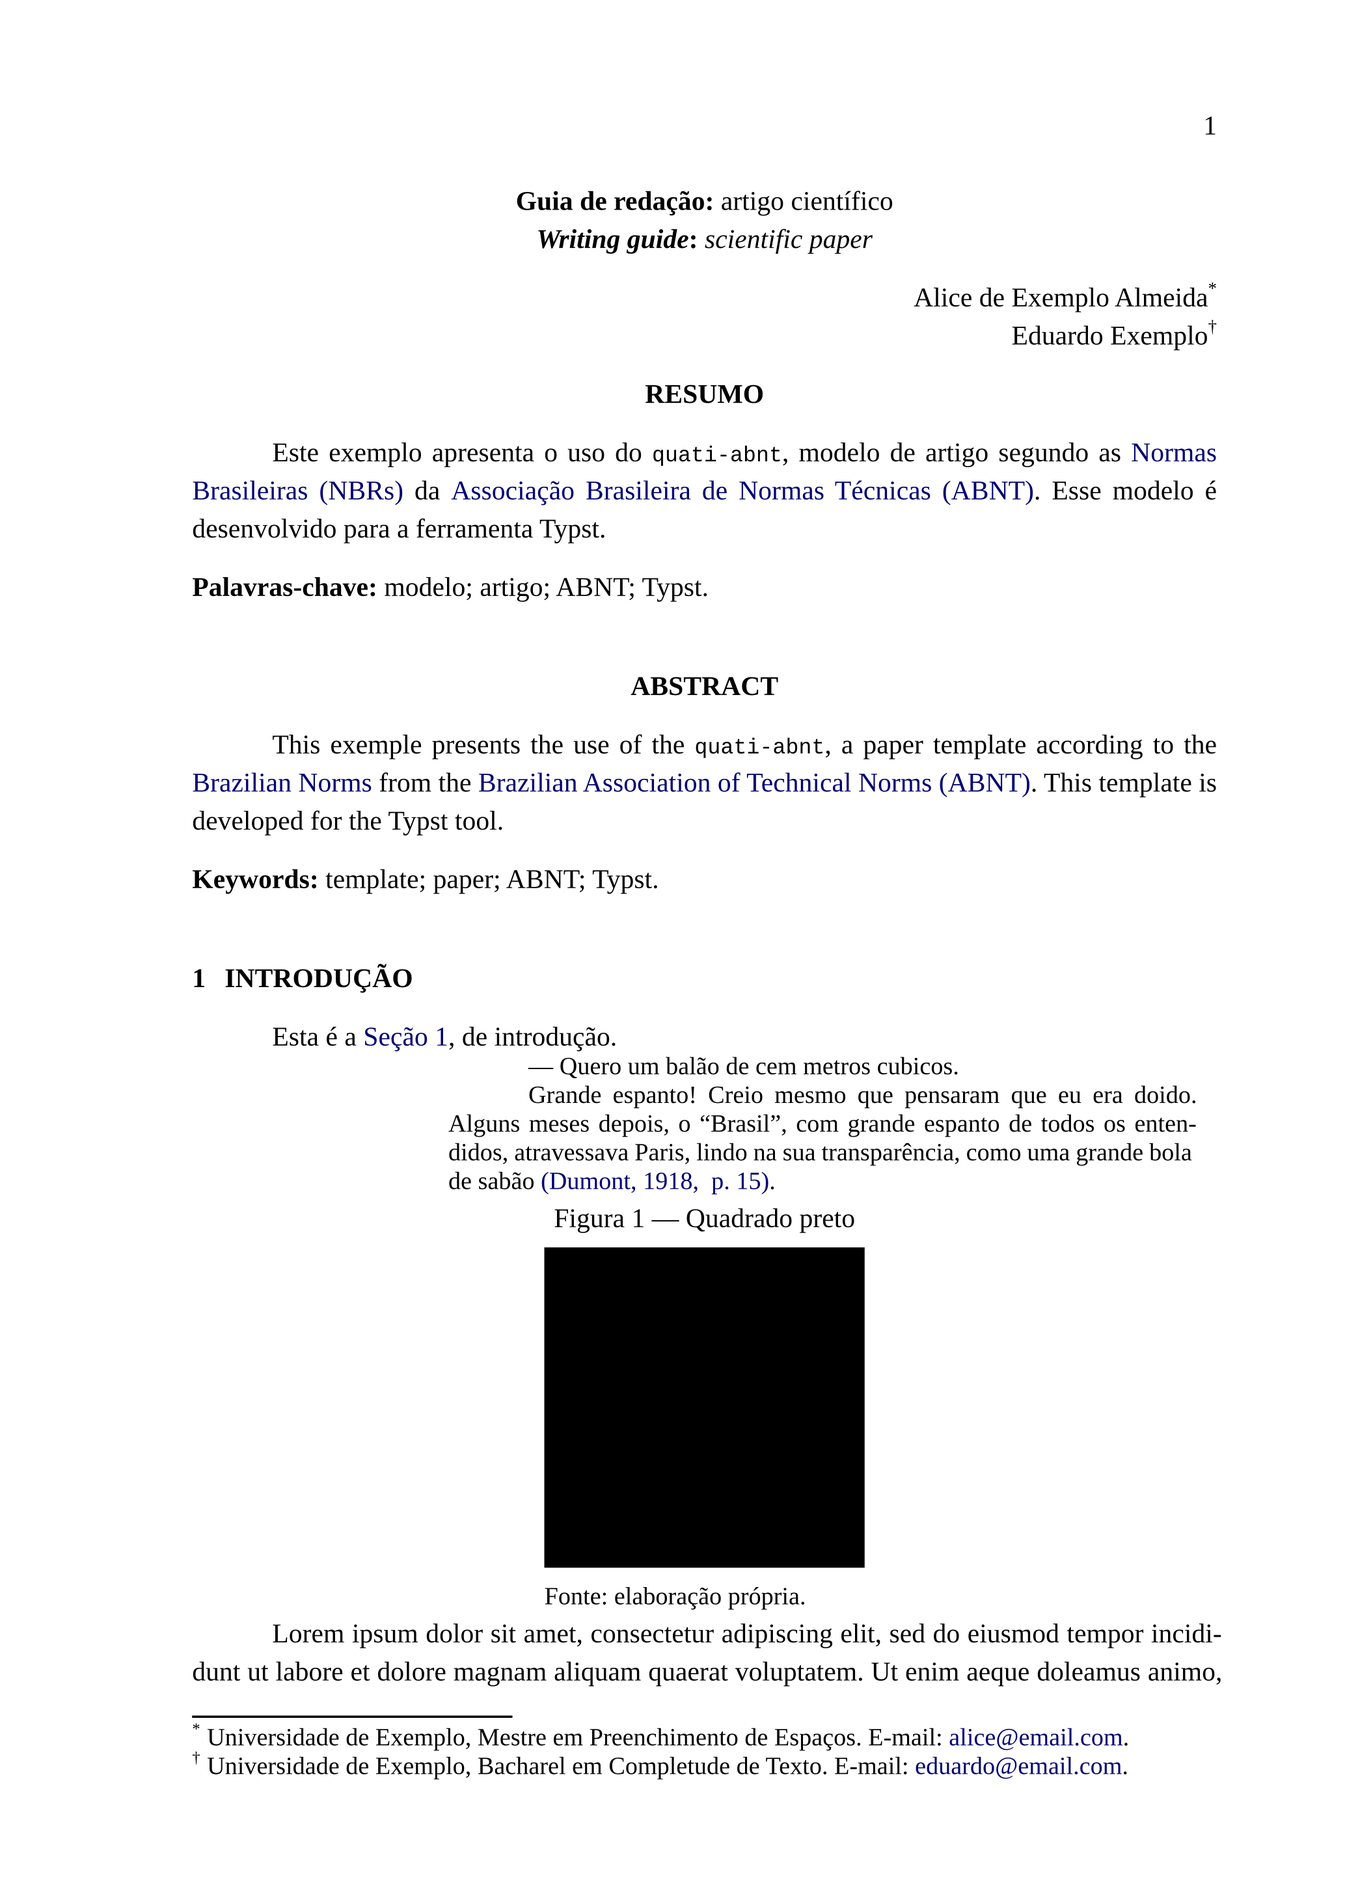
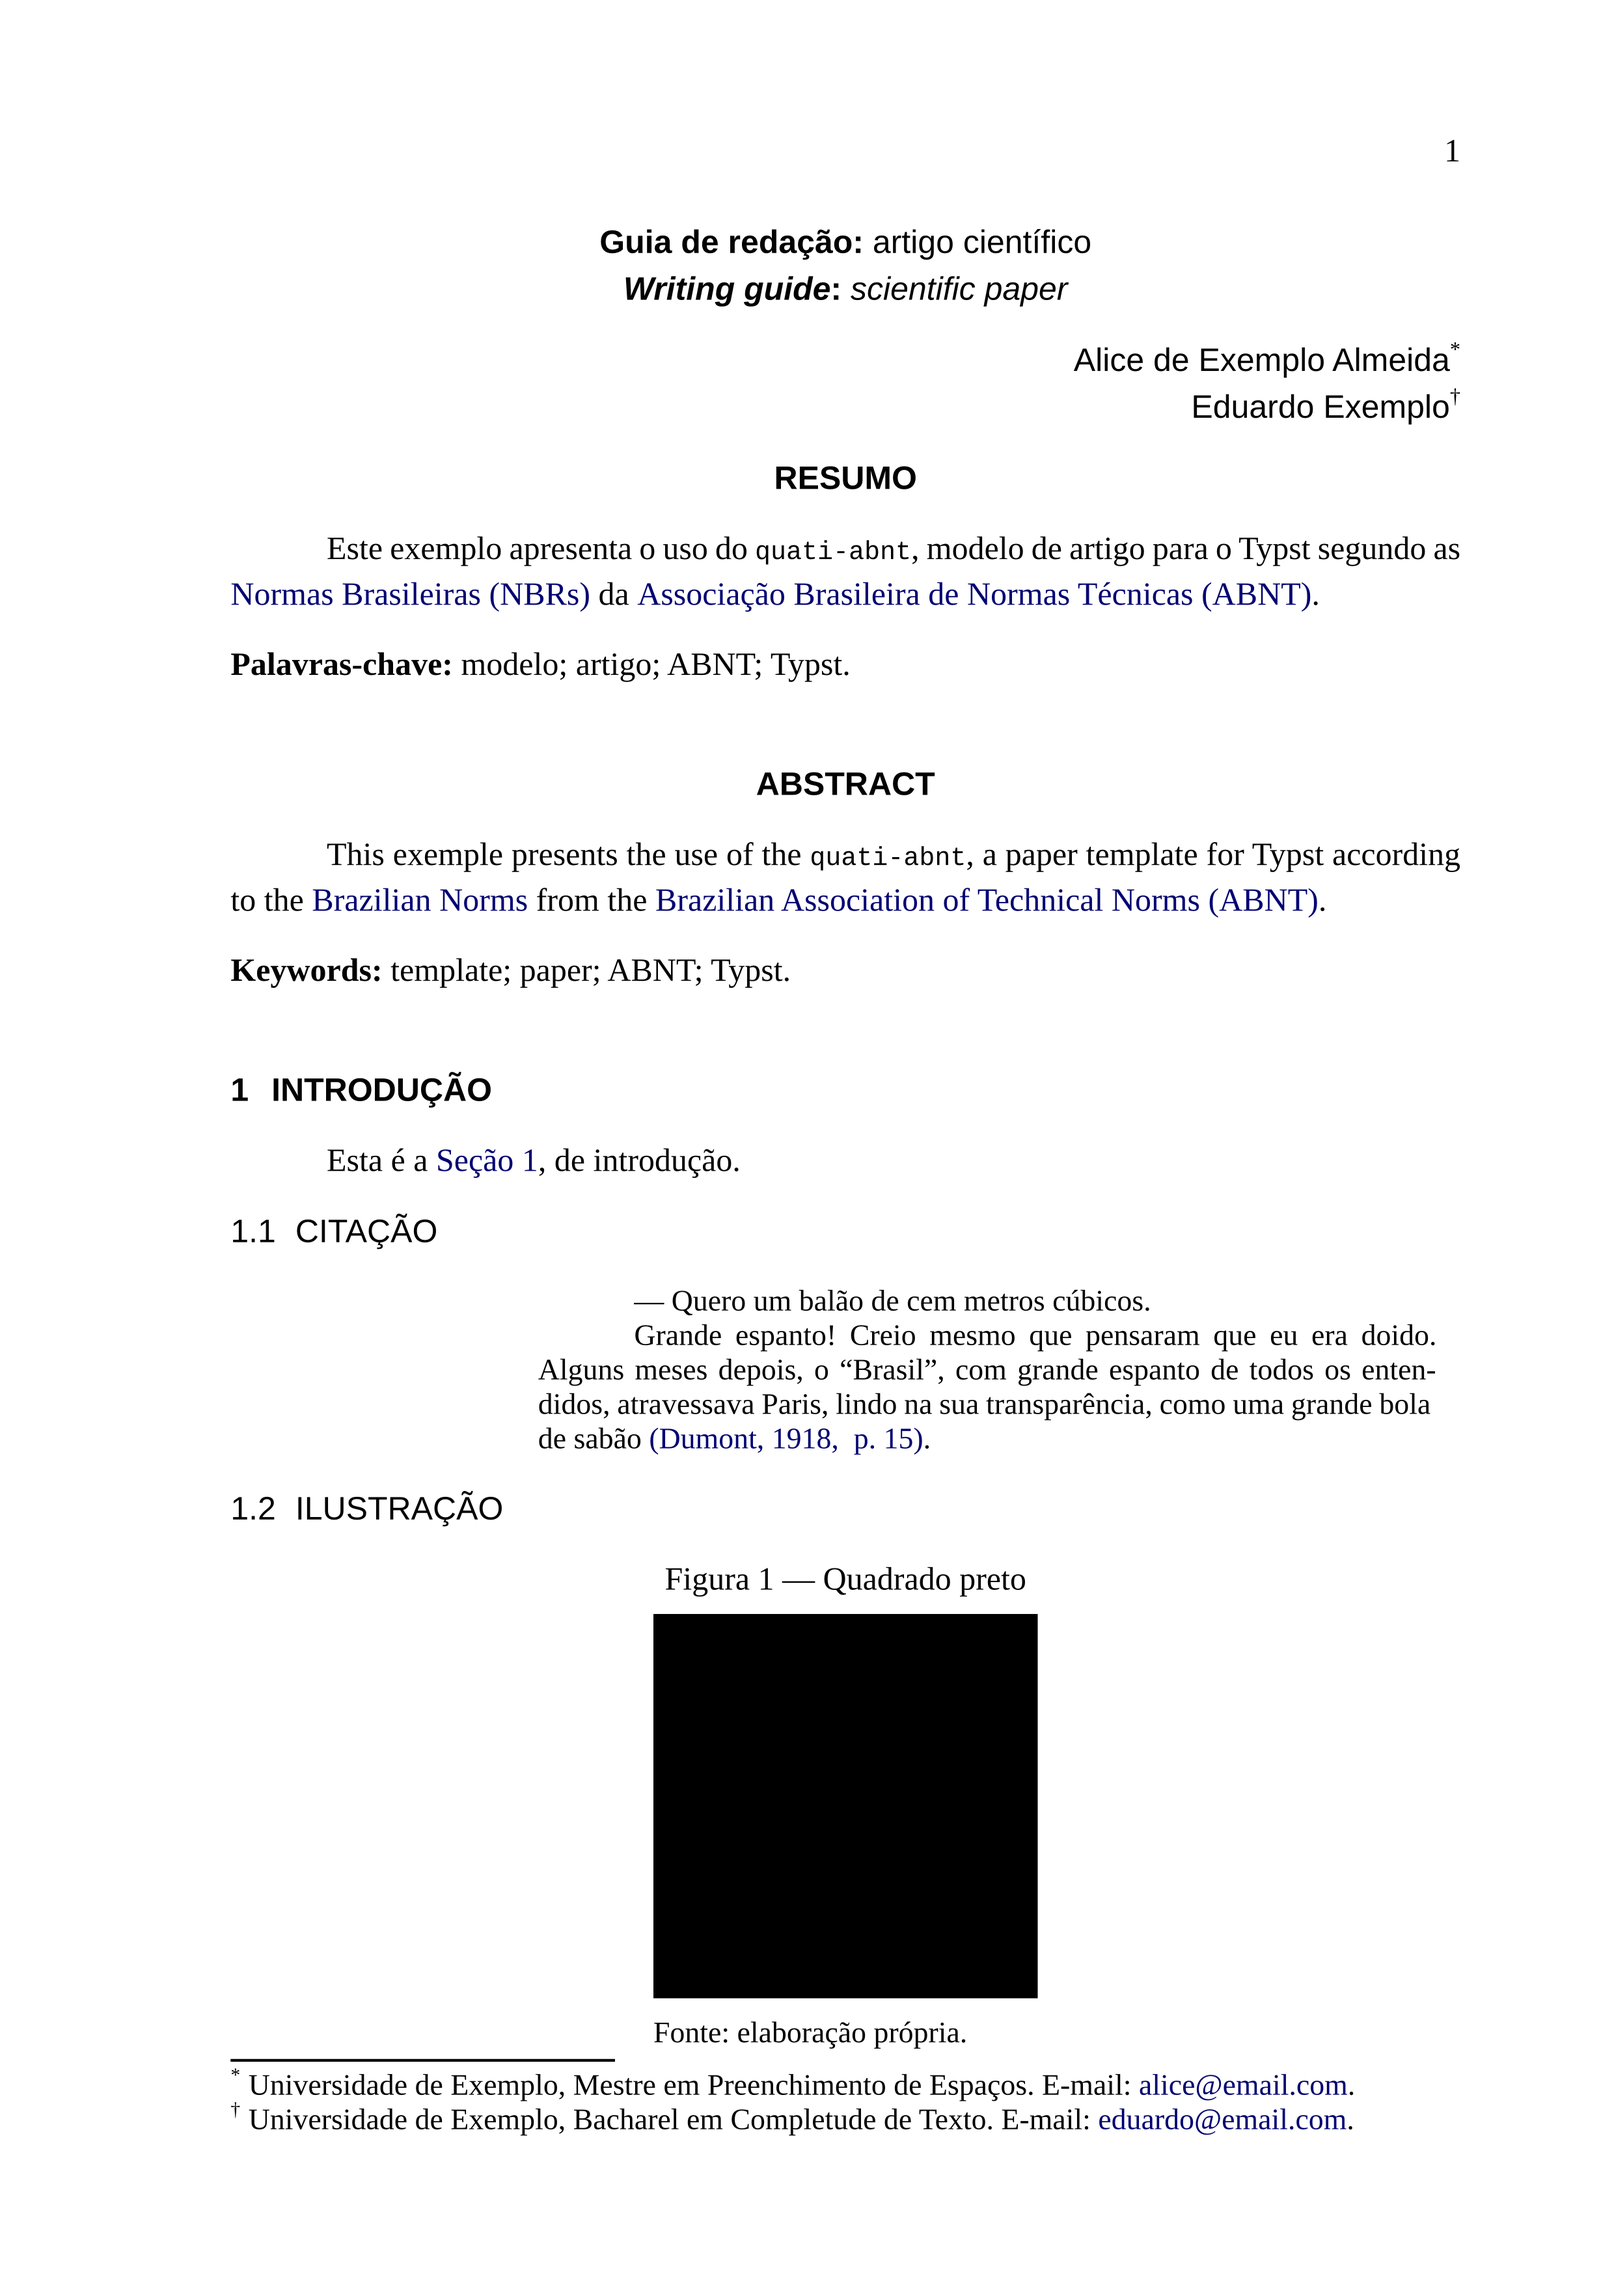
Remove dependency on subpar

diff --git a/README.md b/README.md
@@ -4,15 +4,19 @@ Compose documents according to ABNT standards.
 
 ## Initialization
 
-Create a new project using this template using the following command when running typst locally, or by selecting the template on the Typst web app.
+In order to create a new project using this template, you can either:
+
+- use the following command when running typst **locally**;
 
 ```bash
 typst init @preview/quati-abnt:0.0.4
 ```
 
+- or select [this template](https://typst.app/universe/package/quati-abnt) on the Typst **web app**.
+
 This will create two folders: `article`, intended for scientific papers, and `academic_work`, intended for dissertations, theses, and monographs.
 
-```
+```filesystem
 .
 ├── article
 │   └── main.typ
@@ -22,9 +26,9 @@ This will create two folders: `article`, intended for scientific papers, and `ac
 
 Each folder contains a `main.typ` file, which is the entry point for the document.
 
-If you do not intend on using one of the templates, you can delete the corresponding folder.
+If you do not intend on using one of the templates, you can **delete** the corresponding folder.
 
-After that, select the `main.typ` file of the desired template to render the document.
+After that, select the `main.typ` file on the **desired template** to render the document.
 
 On the `/packages.typ` file inside each template folder, you will find the importing of the `quati-abnt` package.
 
@@ -49,7 +53,15 @@ This file initializes the template, offering options to configure it.
 
   // Define the color of links and cross-references.
   // Defina a cor dos links e das referências cruzadas.
-  color_of_links: oklch(25%, 0.17, 264.05deg),
+  color_of_links: quati-abnt.common.style.color_of_links,
+
+  // Define the font family to be used on each context.
+  // Defina a família tipográfica a ser utilizada em cada contexto.
+  font_family_for_common_text: quati-abnt.common.style.font_family_serif,
+  font_family_for_highlighted_text: quati-abnt.common.style.font_family_sans,
+  font_family_for_math_text: quati-abnt.common.style.font_family_math,
+  font_family_for_monospaced_text: quati-abnt.common.style.font_family_mono,
+  font_family_for_editor_notes: quati-abnt.common.style.font_family_sans,
 
   // Define whether to count pages and place its numbers at the headers.
   // Defina se deve contar as páginas e exibir seus números nos cabeçalhos.
@@ -64,7 +76,7 @@ This file initializes the template, offering options to configure it.
 ### Packages
 
 Still on the root folder, you can include more Typst packages on the `/packages.typ` file.
-This template depends on these packages, which are already re-exported to your project: `glossarium`; and `subpar`.
+This template depends on these packages, which are already re-exported to your project: `glossarium`.
 
 ### Components
 
@@ -123,8 +135,7 @@ Then, write the abstract and the keywords in the main language.
     ),
     title: "Resumo",
     body: [
-      Este exemplo apresenta o uso do `quati-abnt`, modelo de artigo segundo as @nbr:pl da @abnt.
-      Esse modelo é desenvolvido para a ferramenta Typst.
+      Este exemplo apresenta o uso do `quati-abnt`, modelo de artigo para o Typst segundo as @nbr:pl da @abnt.
     ],
   )
 }
